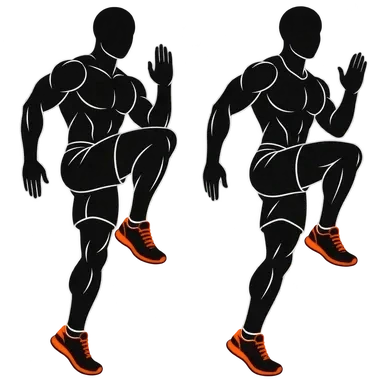
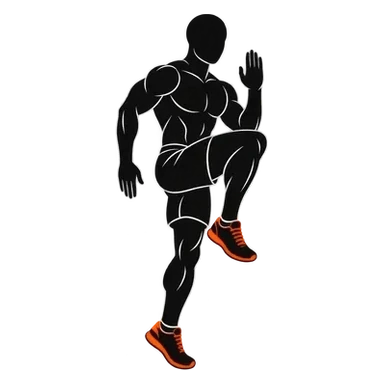
Übungsbilder: High Knees eine Figur, Prone T-Raise ohne Kreis (Fassung 2026-11-19-5)

diff --git a/index.html b/index.html
@@ -13,8 +13,8 @@
 <meta name="apple-mobile-web-app-status-bar-style" content="black-translucent">
 <meta name="apple-mobile-web-app-title" content="BLOC">
 <!-- ?v= gehört zu FASSUNG in sw.js: bei jeder neuen Fassung beide ändern -->
-<link rel="stylesheet" href="./app.css?v=2026-11-19-4">
-<link rel="stylesheet" href="./layout-new.css?v=2026-11-19-4">
+<link rel="stylesheet" href="./app.css?v=2026-11-19-5">
+<link rel="stylesheet" href="./layout-new.css?v=2026-11-19-5">
 </head>
 <body>
 <div class="glas-bg" aria-hidden="true"><i></i></div>
@@ -23,36 +23,36 @@
 <div id="overlayRoot"></div>
 <nav id="tabbar" class="tabbar hidden" aria-label="Navigation"></nav>
 
-<script src="./texte.js?v=2026-11-19-4"></script>
-<script src="./daten.js?v=2026-11-19-4"></script>
-<script src="./fotos.js?v=2026-11-19-4"></script>
-<script src="./faq.js?v=2026-11-19-4"></script>
-<script src="./js/00-native.js?v=2026-11-19-4"></script>
-<script src="./js/01-basis.js?v=2026-11-19-4"></script>
-<script src="./js/02-bibliothek.js?v=2026-11-19-4"></script>
-<script src="./js/03-router.js?v=2026-11-19-4"></script>
-<script src="./js/04-start.js?v=2026-11-19-4"></script>
-<script src="./js/05-suche.js?v=2026-11-19-4"></script>
-<script src="./js/06-timer-listen.js?v=2026-11-19-4"></script>
-<script src="./js/07-studio.js?v=2026-11-19-4"></script>
-<script src="./js/08-koerperkarte.js?v=2026-11-19-4"></script>
-<script src="./js/09-studio-karte.js?v=2026-11-19-4"></script>
-<script src="./js/10-gemeinsam.js?v=2026-11-19-4"></script>
-<script src="./js/11-bibliothek-seite.js?v=2026-11-19-4"></script>
-<script src="./js/11b-katalog.js?v=2026-11-19-4"></script>
-<script src="./js/12-uebung-statistik.js?v=2026-11-19-4"></script>
-<script src="./js/13-teilen-editor.js?v=2026-11-19-4"></script>
-<script src="./js/14-einfuehrung-sicherung.js?v=2026-11-19-4"></script>
-<script src="./js/16-lauf.js?v=2026-11-19-4"></script>
-<script src="./js/17-aufwaermen-einstellungen.js?v=2026-11-19-4"></script>
-<script src="./js/18-audio.js?v=2026-11-19-4"></script>
-<script src="./js/19-timer-motor.js?v=2026-11-19-4"></script>
-<script src="./js/19a-kalender.js?v=2026-11-19-4"></script>
-<script src="./js/20-walzen-start.js?v=2026-11-19-4"></script>
-<script src="./js/21-koerper.js?v=2026-11-19-4"></script>
-<script src="./js/22-satz-training.js?v=2026-11-19-4"></script>
-<script src="./js/23-protein.js?v=2026-11-19-4"></script>
-<script src="./js/24-fortschritt.js?v=2026-11-19-4"></script>
-<script src="./js/25-plan-assistent.js?v=2026-11-19-4"></script>
+<script src="./texte.js?v=2026-11-19-5"></script>
+<script src="./daten.js?v=2026-11-19-5"></script>
+<script src="./fotos.js?v=2026-11-19-5"></script>
+<script src="./faq.js?v=2026-11-19-5"></script>
+<script src="./js/00-native.js?v=2026-11-19-5"></script>
+<script src="./js/01-basis.js?v=2026-11-19-5"></script>
+<script src="./js/02-bibliothek.js?v=2026-11-19-5"></script>
+<script src="./js/03-router.js?v=2026-11-19-5"></script>
+<script src="./js/04-start.js?v=2026-11-19-5"></script>
+<script src="./js/05-suche.js?v=2026-11-19-5"></script>
+<script src="./js/06-timer-listen.js?v=2026-11-19-5"></script>
+<script src="./js/07-studio.js?v=2026-11-19-5"></script>
+<script src="./js/08-koerperkarte.js?v=2026-11-19-5"></script>
+<script src="./js/09-studio-karte.js?v=2026-11-19-5"></script>
+<script src="./js/10-gemeinsam.js?v=2026-11-19-5"></script>
+<script src="./js/11-bibliothek-seite.js?v=2026-11-19-5"></script>
+<script src="./js/11b-katalog.js?v=2026-11-19-5"></script>
+<script src="./js/12-uebung-statistik.js?v=2026-11-19-5"></script>
+<script src="./js/13-teilen-editor.js?v=2026-11-19-5"></script>
+<script src="./js/14-einfuehrung-sicherung.js?v=2026-11-19-5"></script>
+<script src="./js/16-lauf.js?v=2026-11-19-5"></script>
+<script src="./js/17-aufwaermen-einstellungen.js?v=2026-11-19-5"></script>
+<script src="./js/18-audio.js?v=2026-11-19-5"></script>
+<script src="./js/19-timer-motor.js?v=2026-11-19-5"></script>
+<script src="./js/19a-kalender.js?v=2026-11-19-5"></script>
+<script src="./js/20-walzen-start.js?v=2026-11-19-5"></script>
+<script src="./js/21-koerper.js?v=2026-11-19-5"></script>
+<script src="./js/22-satz-training.js?v=2026-11-19-5"></script>
+<script src="./js/23-protein.js?v=2026-11-19-5"></script>
+<script src="./js/24-fortschritt.js?v=2026-11-19-5"></script>
+<script src="./js/25-plan-assistent.js?v=2026-11-19-5"></script>
 </body>
 </html>

diff --git a/sw.js b/sw.js
@@ -7,7 +7,7 @@
  */
 
 /* Einzige Stelle für die Versionsnummer - die App fragt sie per postMessage ab (Einstellungen, ganz unten) */
-var FASSUNG = "2026-11-19-4";
+var FASSUNG = "2026-11-19-5";
 var NETZ_WARTEN = 2500;   // ms - so lange wartet der Start höchstens aufs Netz, wenn es eine gespeicherte Fassung gibt
 var SPEICHER = "sporttimer-" + FASSUNG;
 var GRUNDGERUEST = ["./", "./index.html", "./texte.js", "./quellen.html", "./daten.js", "./fotos.js", "./faq.js", "./js/00-native.js", "./js/01-basis.js", "./js/02-bibliothek.js", "./js/03-router.js", "./js/04-start.js", "./js/05-suche.js", "./js/06-timer-listen.js", "./js/07-studio.js", "./js/08-koerperkarte.js", "./js/09-studio-karte.js", "./js/10-gemeinsam.js", "./js/11-bibliothek-seite.js", "./js/11b-katalog.js", "./js/12-uebung-statistik.js", "./js/13-teilen-editor.js", "./js/14-einfuehrung-sicherung.js", "./js/16-lauf.js", "./js/17-aufwaermen-einstellungen.js", "./js/18-audio.js", "./js/19-timer-motor.js", "./js/19a-kalender.js", "./js/20-walzen-start.js", "./js/21-koerper.js", "./js/22-satz-training.js", "./js/23-protein.js", "./js/24-fortschritt.js", "./js/25-plan-assistent.js", "./img/neu-protein.jpg", "./app.css", "./layout-new.css", "./img/neu-workout.jpg", "./img/neu-mobility.jpg", "./img/neu-timer.jpg", "./img/neu-run.jpg", "./img/neu-builder.webp", "./img/neu-kopf.jpg", "./img/neu-kopf-hell.jpg", "./img/neu-kopf-hell-meer.jpg", "./img/neu-h-halle.jpg", "./img/neu-h-kettlebell.jpg", "./img/neu-h-dehnen.jpg", "./img/neu-d-kalender.jpg", "./img/neu-d-katalog.jpg", "./img/neu-run-bg.jpg", "./img/neu-hell-hintergrund.jpg", "./img/neu-p-freiluft-meer.jpg", "./img/neu-faq.jpg", "./img/neu-wissen.jpg", "./img/neu-h-hanteln-orange.jpg", "./img/neu-p-dehnung-silhouette.jpg", "./img/neu-freiluft.jpg", "./img/neu-p-freiluft-meer.jpg", "./img/neu-p-liegestuetz-strand.jpg", "./img/neu-p-liegestuetz-stadt.jpg", "./img/neu-p-studio-hantelreihe.jpg", "./img/neu-p-studio-gewichtsblock.jpg", "./img/neu-p-studio-halle.jpg", "./img/neu-p-frau-latzug.jpg", "./img/neu-p-timer-box.jpg", "./img/neu-p-frau-klimmzug.jpg", "./img/neu-p-frau-kniebeuge.jpg", "./img/neu-p-liegestuetz-feld.jpg", "./img/neu-p-mobility-ausfall.jpg", "./img/neu-p-mobility-sitz.jpg", "./img/neu-p-run-licht.jpg", "./img/neu-p-run-strasse.jpg", "./img/neu-p-run-sw.jpg", "./img/neu-p-freiluft-leiter.jpg", "./manifest.json", "./icon.png", "./icon-180.png", "./privacy.html", "./img/ort-fitnessstudio.jpg", "./img/ort-freiluft.jpg", "./img/start-halle.jpg", "./img/bereich-run.jpg", "./img/bereich-suche.jpg"];

diff --git a/VERLAUF.md b/VERLAUF.md
@@ -95,6 +95,13 @@ Umsetzung des zweiten Testberichts (Testberichte/BLOC-Fortschritt-13-Wochen/BERI
 - **Halteübungen:** Steigerung über die Zeit (+5 s bis 60 s, dann mehr Gewicht und 30 s bzw. schwerere Variante; 5 s weniger bei deutlich zu kurz oder nach langer Pause); „je Seite“ bei einseitigen.
 - Tests: einheitstest +9, Schnelltest „Fortschritt“ unabhängig von der Uhrzeit.
 
+## 2026-11-19 · Zwei Übungsbilder bereinigt (Fassung 2026-11-19-5)
+
+Nach Kevins Durchsicht der 19 Bilder, die die Prüfung vom 30.10. als fachlich falsch eingestuft hatte („keine großen Probleme“):
+- **High Knees:** nur noch eine Figur (beide Posen waren identisch), mittig eingepasst.
+- **Prone T-Raise:** Kreis mit der Ansicht von vorn entfernt, beide Posen neu eingepasst.
+- Übersicht `BLOC-Bilder-fehlend-und-mittelmaessig.html` (OneDrive-Ablage): 64 Übungen ohne Foto, 67 mittelmäßig, die 19 als geprüft markiert.
+
 ## 2026-11-19 · Timer-Layout zurück, Test 9 Feinschliff (Fassung 2026-11-19-4)
 
 Kevin: Timer wieder wie vorher (oben Kreise, unten Quadrate); bei Workouts mit Übungen nach Zeit nur oben die Übungsleiste, unten die Quadrate. Test 9 (U1–U5) umgesetzt, fachlich mit dem Sportwissenschaftler.
